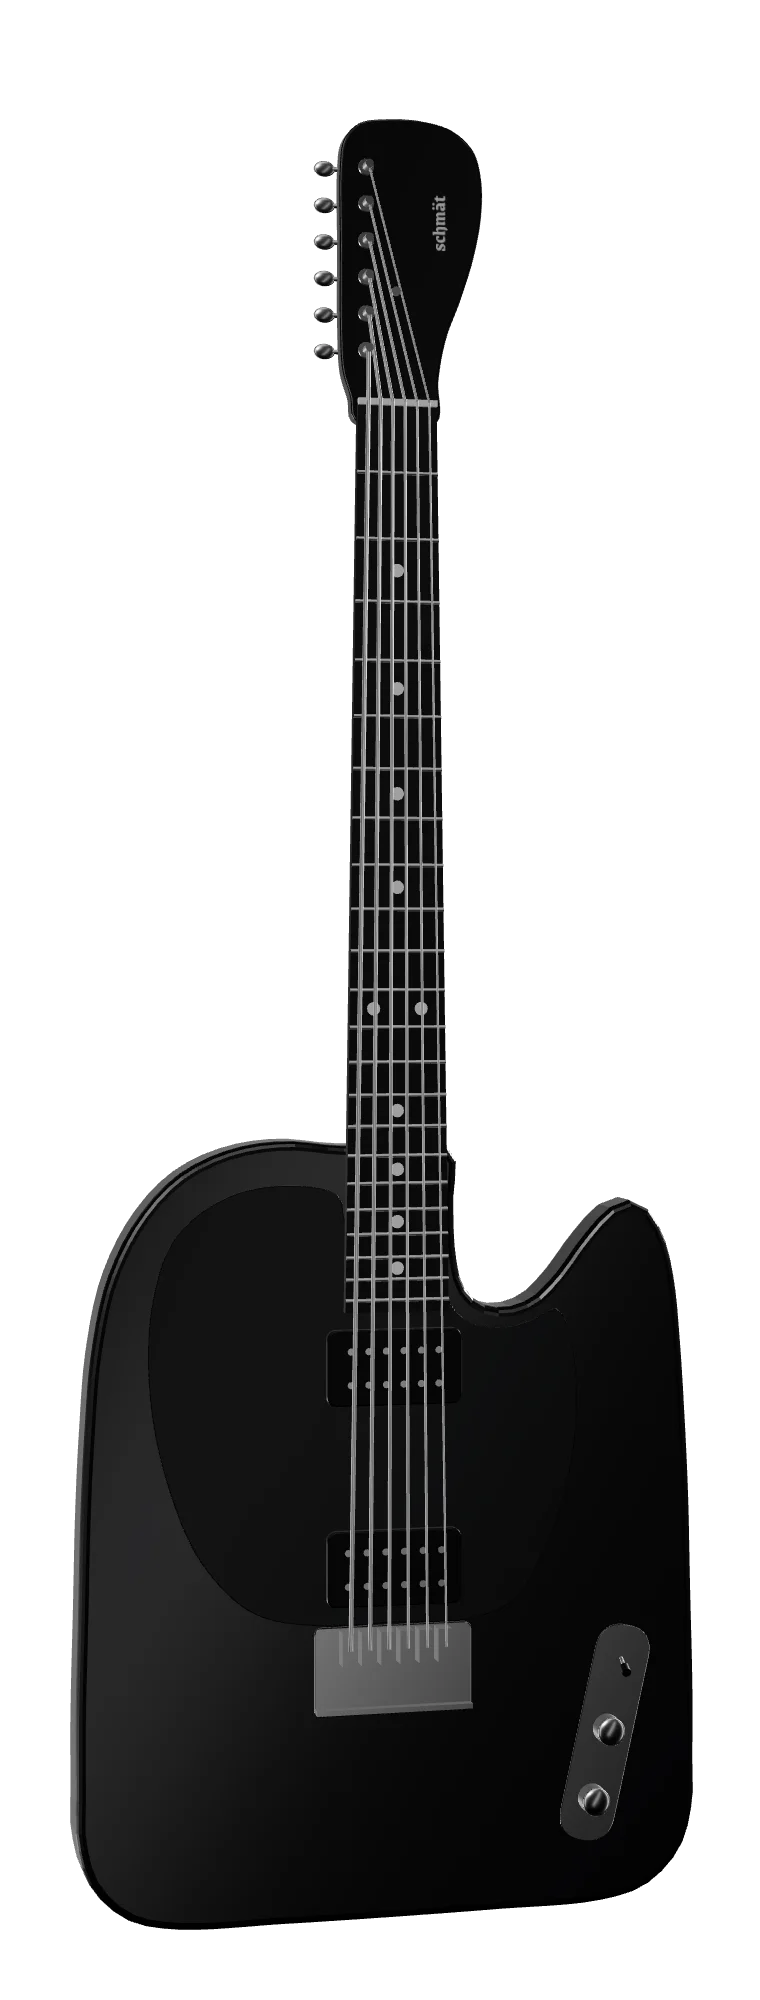
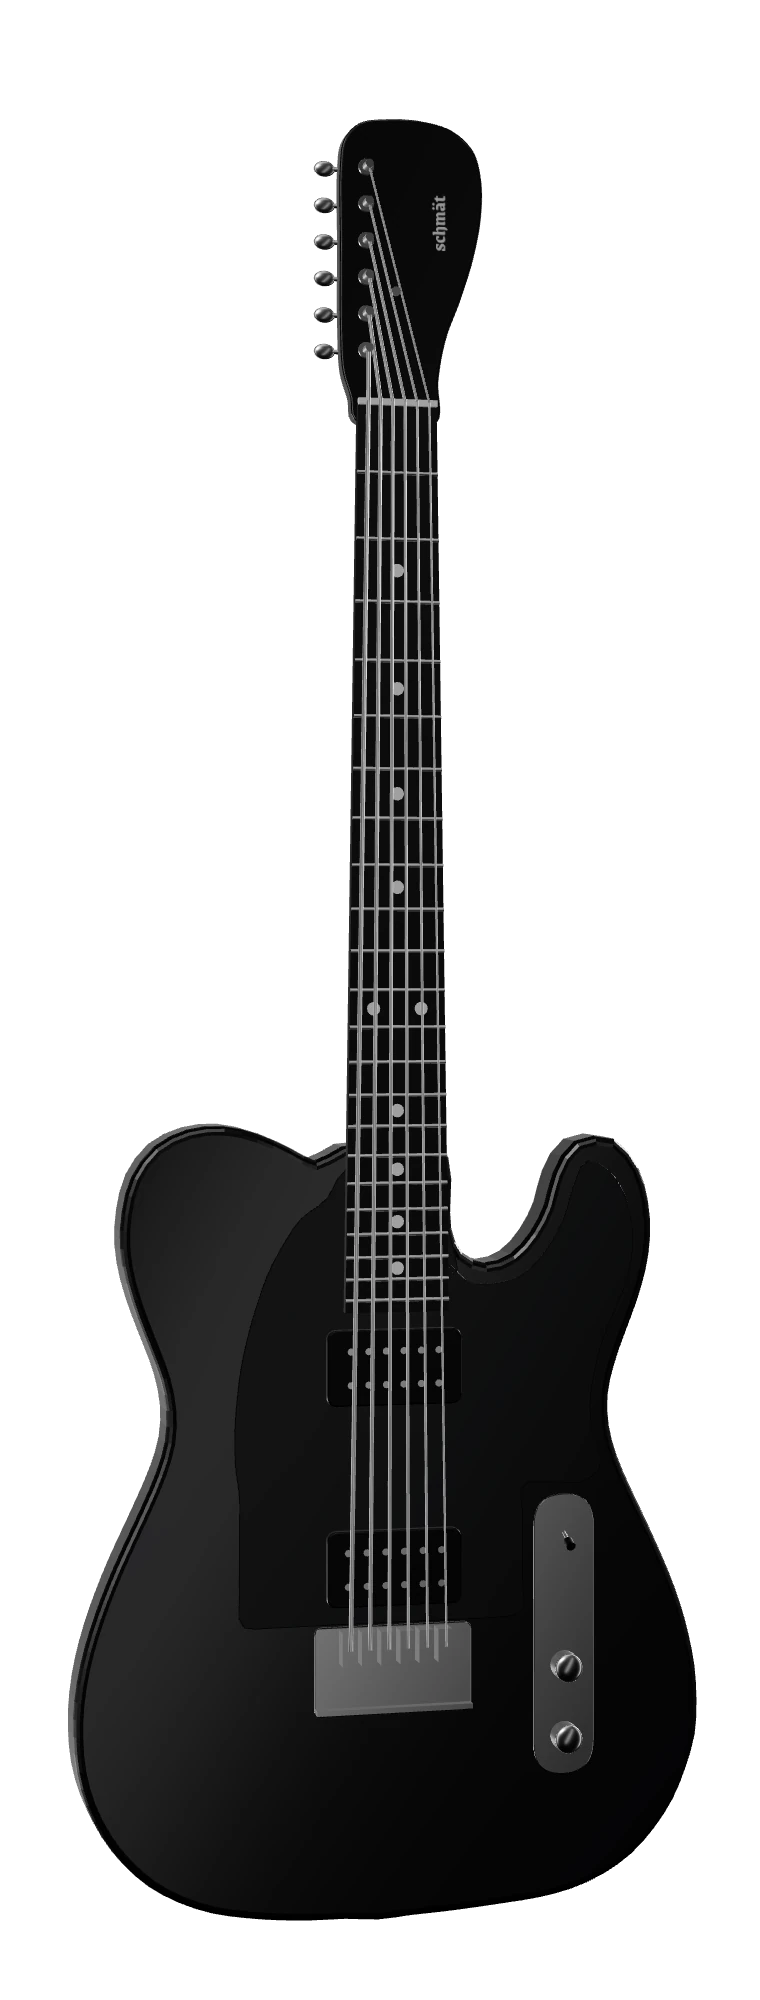
feat: trace the Telecaster body and pickguard from a reference photo

diff --git a/src/components/guitar/telecaster.ts b/src/components/guitar/telecaster.ts
@@ -9,97 +9,157 @@ import { GUITAR_DIMENSIONS as D } from "./guitarModel";
 export type Outline = ReadonlyArray<readonly [number, number]>;
 
 /**
- * Body slab, authored around (0, 0) and placed at `bodyCenterY`. Flat neck
- * pocket across the top, a deep tight cutaway into a short pointed treble horn,
- * near-parallel sides, a squarish lower bout with ≈0.35 corners and a single
- * rounded bass shoulder.
+ * Body slab, authored around (0, 0) and placed at `bodyCenterY`; traced from a
+ * front photo of a Telecaster (neck axis vertical, 2.40 wide). Flat neck pocket
+ * at y = 1.46, rounded bass shoulder with the waist below it, a deep cutaway into
+ * the treble horn, and a lower bout that flares out to round corners.
  */
 export const BODY_OUTLINE: Outline = [
-  // Neck pocket.
-  [0, 1.46],
-  [0.21, 1.46],
-  // Cutaway: down the side of the neck, then out to the horn.
-  [0.215, 1.26],
-  [0.225, 1.06],
-  [0.26, 0.92],
-  [0.34, 0.84],
-  [0.46, 0.815],
-  [0.58, 0.85],
-  [0.69, 0.95],
-  [0.79, 1.08],
-  [0.88, 1.18],
-  // Treble horn tip.
-  [0.95, 1.225],
-  [1.02, 1.2],
-  [1.08, 1.1],
-  // Treble side.
-  [1.12, 0.94],
-  [1.145, 0.7],
-  [1.165, 0.4],
-  [1.18, 0.1],
-  [1.19, -0.3],
-  [1.2, -0.7],
-  [1.2, -1.0],
-  // Lower treble corner (radius ≈0.35 around (0.85, -1.13)).
-  [1.2, -1.13],
-  [1.153, -1.305],
-  [1.025, -1.433],
-  [0.85, -1.48],
-  // Bottom edge, faintly crowned.
-  [0.42, -1.488],
-  [0, -1.49],
-  [-0.42, -1.488],
-  [-0.85, -1.48],
-  // Lower bass corner.
-  [-1.025, -1.433],
-  [-1.153, -1.305],
-  [-1.2, -1.13],
-  // Bass side.
-  [-1.2, -1.0],
-  [-1.2, -0.7],
-  [-1.19, -0.3],
-  [-1.18, 0.1],
-  [-1.165, 0.4],
-  // Bass shoulder, rolling into the top edge at the pocket.
-  [-1.14, 0.7],
-  [-1.08, 0.98],
-  [-0.97, 1.2],
-  [-0.82, 1.36],
-  [-0.63, 1.45],
-  [-0.42, 1.48],
-  [-0.21, 1.46],
+  [-0.053, 1.461],
+  [-0.184, 1.457],
+  [-0.296, 1.402],
+  [-0.414, 1.456],
+  [-0.533, 1.51],
+  [-0.658, 1.541],
+  [-0.788, 1.531],
+  [-0.905, 1.476],
+  [-0.985, 1.373],
+  [-1.02, 1.248],
+  [-1.027, 1.117],
+  [-1.006, 0.988],
+  [-0.967, 0.864],
+  [-0.92, 0.742],
+  [-0.875, 0.619],
+  [-0.85, 0.491],
+  [-0.855, 0.36],
+  [-0.892, 0.235],
+  [-0.944, 0.115],
+  [-1.0, -0.003],
+  [-1.056, -0.122],
+  [-1.106, -0.242],
+  [-1.15, -0.366],
+  [-1.184, -0.492],
+  [-1.205, -0.621],
+  [-1.21, -0.752],
+  [-1.198, -0.882],
+  [-1.163, -1.007],
+  [-1.105, -1.125],
+  [-1.027, -1.229],
+  [-0.931, -1.318],
+  [-0.818, -1.384],
+  [-0.696, -1.43],
+  [-0.568, -1.456],
+  [-0.438, -1.473],
+  [-0.307, -1.482],
+  [-0.177, -1.485],
+  [-0.048, -1.496],
+  [0.072, -1.488],
+  [0.202, -1.483],
+  [0.333, -1.475],
+  [0.463, -1.465],
+  [0.594, -1.453],
+  [0.722, -1.428],
+  [0.844, -1.382],
+  [0.955, -1.313],
+  [1.047, -1.22],
+  [1.121, -1.114],
+  [1.173, -0.995],
+  [1.21, -0.869],
+  [1.217, -0.739],
+  [1.209, -0.609],
+  [1.184, -0.48],
+  [1.148, -0.354],
+  [1.102, -0.232],
+  [1.049, -0.112],
+  [0.993, 0.006],
+  [0.936, 0.124],
+  [0.884, 0.244],
+  [0.85, 0.37],
+  [0.846, 0.5],
+  [0.875, 0.628],
+  [0.92, 0.751],
+  [0.967, 0.873],
+  [1.004, 0.998],
+  [1.021, 1.128],
+  [1.011, 1.258],
+  [0.971, 1.382],
+  [0.884, 1.476],
+  [0.759, 1.466],
+  [0.687, 1.36],
+  [0.651, 1.234],
+  [0.589, 1.12],
+  [0.497, 1.027],
+  [0.373, 0.992],
+  [0.258, 1.047],
+  [0.207, 1.165],
+  [0.205, 1.296],
+  [0.196, 1.425],
+  [0.078, 1.461],
 ];
 
 /**
- * One-piece HH guard in the body frame: follows the cutaway, wraps both
- * humbuckers, and stops short of the bridge plate and the control plate.
+ * One-piece HH guard in the body frame, traced from the same photo (it runs
+ * under the neck to the pocket), with the lower edge carried past the bridge
+ * humbucker to the bridge plate, as on HH Teles. It stops short of the control
+ * plate.
  */
 export const PICKGUARD_OUTLINE: Outline = [
-  [0.19, 1.15],
-  [0.2, 0.96],
-  [0.24, 0.85],
-  [0.32, 0.79],
-  [0.45, 0.77],
-  [0.57, 0.8],
-  [0.66, 0.84],
-  [0.72, 0.7],
-  [0.74, 0.45],
-  [0.7, 0.15],
-  [0.6, -0.12],
-  [0.48, -0.3],
-  [0.3, -0.36],
-  [0, -0.36],
-  [-0.3, -0.36],
-  [-0.55, -0.3],
-  [-0.75, -0.1],
-  [-0.88, 0.2],
-  [-0.95, 0.55],
-  [-0.94, 0.9],
-  [-0.85, 1.15],
-  [-0.65, 1.3],
-  [-0.42, 1.34],
-  [-0.22, 1.3],
-  [-0.18, 1.18],
+  [-0.021, 1.42],
+  [-0.146, 1.42],
+  [-0.207, 1.38],
+  [-0.262, 1.289],
+  [-0.361, 1.215],
+  [-0.433, 1.114],
+  [-0.492, 1.004],
+  [-0.535, 0.887],
+  [-0.57, 0.767],
+  [-0.597, 0.645],
+  [-0.613, 0.522],
+  [-0.622, 0.398],
+  [-0.62, 0.273],
+  [-0.604, 0.15],
+  [-0.604, 0.025],
+  [-0.604, -0.1],
+  [-0.604, -0.225],
+  [-0.596, -0.348],
+  [-0.475, -0.36],
+  [-0.35, -0.36],
+  [-0.225, -0.36],
+  [-0.101, -0.36],
+  [0.024, -0.36],
+  [0.149, -0.36],
+  [0.274, -0.36],
+  [0.398, -0.36],
+  [0.516, -0.342],
+  [0.521, -0.218],
+  [0.521, -0.093],
+  [0.521, 0.032],
+  [0.523, 0.156],
+  [0.646, 0.162],
+  [0.771, 0.161],
+  [0.841, 0.222],
+  [0.807, 0.342],
+  [0.796, 0.465],
+  [0.813, 0.588],
+  [0.844, 0.705],
+  [0.891, 0.819],
+  [0.942, 0.939],
+  [0.969, 1.061],
+  [0.966, 1.176],
+  [0.936, 1.287],
+  [0.871, 1.381],
+  [0.783, 1.42],
+  [0.729, 1.317],
+  [0.692, 1.199],
+  [0.621, 1.075],
+  [0.527, 0.981],
+  [0.423, 0.947],
+  [0.305, 0.952],
+  [0.214, 1.042],
+  [0.234, 1.005],
+  [0.248, 0.987],
+  [0.256, 0.991],
+  [0.103, 1.42],
 ];
 
 /**
@@ -130,13 +190,13 @@ export const HEADSTOCK_OUTLINE: Outline = [
   [0, -0.08],
 ];
 
-/** Chrome control plate on the lower treble bout (body frame), long axis tilted by `angle`. */
+/** Chrome control plate on the lower treble bout (body frame), parallel to the strings; long axis tilted by `angle`. */
 export const CONTROL_PLATE = {
-  x: 0.86,
-  y: -0.84,
-  angle: -0.22,
-  length: 0.86,
-  width: 0.22,
+  x: 0.69,
+  y: -0.44,
+  angle: 0,
+  length: 1.1,
+  width: 0.24,
 } as const;
 
 /** Bevel size and thickness of the body's crisp slab edge. */

diff --git a/src/components/guitar/telecaster.test.ts b/src/components/guitar/telecaster.test.ts
@@ -41,27 +41,39 @@ function topEdgeAt(outline: Outline, x: number): number {
 const STRINGS = Array.from({ length: D.stringCount }, (_, index) => index);
 
 describe("telecaster body", () => {
-  it("is ≈2.40 wide and ≈2.96 long", () => {
+  it("is ≈2.40 wide and ≈3.0 long", () => {
     const { minX, maxX, minY, maxY } = bounds(BODY_OUTLINE);
     expect(maxX - minX).toBeGreaterThanOrEqual(2.35);
     expect(maxX - minX).toBeLessThanOrEqual(2.45);
-    expect(maxY - minY).toBeGreaterThanOrEqual(2.9);
-    expect(maxY - minY).toBeLessThanOrEqual(3.02);
+    expect(maxY - minY).toBeGreaterThanOrEqual(2.95);
+    expect(maxY - minY).toBeLessThanOrEqual(3.1);
   });
 
-  it("has nearly parallel sides", () => {
-    const lower = BODY_OUTLINE.filter(([, y]) => y >= -1.1 && y <= -0.3);
+  it("pinches in at the waist and flares into the lower bout", () => {
+    const reach = (side: number, y0: number) =>
+      Math.max(
+        ...BODY_OUTLINE.filter(([x, y]) => Math.sign(x) === side && Math.abs(y - y0) < 0.08).map(
+          ([x]) => Math.abs(x),
+        ),
+      );
     for (const side of [-1, 1]) {
-      const reach = lower.filter(([x]) => Math.sign(x) === side).map(([x]) => Math.abs(x));
-      expect(reach.length).toBeGreaterThan(1);
-      expect(Math.max(...reach) - Math.min(...reach)).toBeLessThan(0.08);
+      const waist = reach(side, 0.4);
+      const lowerBout = reach(side, -0.6);
+      expect(lowerBout - waist).toBeGreaterThanOrEqual(0.2);
     }
   });
 
-  it("has a treble horn shorter than the bass shoulder", () => {
+  it("has a bass shoulder that reaches a little past the treble horn", () => {
     const horn = Math.max(...BODY_OUTLINE.filter(([x]) => x > 0.3).map(([, y]) => y));
     const shoulder = Math.max(...BODY_OUTLINE.filter(([x]) => x < -0.3).map(([, y]) => y));
-    expect(shoulder - horn).toBeGreaterThanOrEqual(0.2);
+    expect(shoulder).toBeGreaterThan(horn);
+    expect(shoulder - horn).toBeLessThan(0.2);
+  });
+
+  it("cuts away deeply beside the neck", () => {
+    // Below the horn tip, the treble edge next to the neck dips well under the pocket.
+    const cutaway = topEdgeAt(BODY_OUTLINE, 0.4);
+    expect(topEdgeAt(BODY_OUTLINE, 0) - cutaway).toBeGreaterThanOrEqual(0.3);
   });
 
   it("meets the fretboard near fret 16", () => {

diff --git a/src/components/guitar/Guitar.tsx b/src/components/guitar/Guitar.tsx
@@ -857,17 +857,17 @@ function Body({
           />
         ))}
       </group>
-      {/* Angled control plate: selector lever on top, then volume and tone. */}
+      {/* Control plate: selector lever nearest the neck, then volume and tone. */}
       <group
         position={[CONTROL_PLATE.x, CONTROL_PLATE.y, BODY_FRONT_Z]}
         rotation={[0, 0, CONTROL_PLATE.angle]}
       >
         <mesh geometry={geometry.controlPlate} material={materials.chrome} />
-        <group position={[0, 0.3, 0.01]} rotation={[0.35, 0, 0]}>
+        <group position={[0, 0.4, 0.01]} rotation={[0.35, 0, 0]}>
           <mesh geometry={geometry.lever} material={materials.chrome} position={[0, 0, 0.04]} />
           <mesh geometry={geometry.leverTip} material={materials.knob} position={[0, 0, 0.085]} />
         </group>
-        {[0.02, -0.26].map((y) => (
+        {[-0.12, -0.4].map((y) => (
           <group key={y} position={[0, y, 0.01]}>
             <mesh geometry={geometry.knob} material={materials.chrome} position={[0, 0, 0.035]} />
             <mesh

diff --git a/AGENTS.md b/AGENTS.md
@@ -41,8 +41,8 @@ Rules:
 ## Current Features
 
 - Home is a scroll journey over a full-screen pinned procedural 3D guitar (`src/components/home/HomeJourney.tsx`); the sections scroll over the stage, which starts under the header. Phones: the guitar is centred behind the text and dims (scrim driven by scroll position) once the reader leaves the hero. md+: the text is a left column and the render is shifted right by `STAGE_SHIFT` (`guitar/journey.ts`), mirrored by the CSS backdrop and the poster. Stops: hero (wordmark, tagline, Play) → headstock (latest release + Spotify embed) → neck (upcoming shows, one fret each; the fret of the row in view lights red) → body (merch) → outro (links). Admin widget order/visibility drives the neck/body stops (the release stop is always second, right after the hero, whenever its widget is enabled, regardless of widget order); empty merch skips the body stop. The widget `width` setting is still stored and editable in admin but no longer affects `/` (the journey is a single column)
-- Play button plays `site.featuredTrack` ("Engel uit die Hemel", `public/audio/engel-uit-die-hemel.mp3`) through `createAudioPlayback` in `src/components/guitar/playback.ts`. The file is only requested on the first press; a Web Audio analyser turns the track's low end into the playback envelope (each detected beat plucks a string), with a fixed-tempo pulse when Web Audio is unavailable. A status line under the button covers idle, loading, playing and load errors. `PlaybackProvider` lives in the root layout, so the track keeps playing in a background tab and across client-side navigation (a full reload resets it). Once Play has been pressed, a persistent player bar (`src/components/player/PlayerBar.tsx`: play/pause, title, live waveform, seek, time, mute, volume, close) sits fixed along the bottom of every public page (not `/admin`); closing it pauses the track and it returns on the next play; navigating to `/admin` also pauses the track, since the bar is hidden there. Volume and mute persist in `localStorage` (`bandland-volume`); volume and mute go through a `GainNode` after the analyser when Web Audio exists, otherwise through the audio element. `createSimulatedPlayback` stays for tests (`PlaybackProvider` takes a `createDriver` prop)
-- The guitar is a procedural piano-black Telecaster, HH layout (proportions in `GUITAR_DIMENSIONS` in `guitar/guitarModel.ts`: nut 0.31, heel 0.41, body about 2.40 x 2.96; outlines and string layout in `guitar/telecaster.ts`; clearcoat single-cut slab, black one-piece pickguard, two humbuckers, hardtail bridge plate with six block saddles, angled chrome control plate with selector and two knobs, rounded neck, 22 fret wires, Tele headstock with six-in-line tuners, a string tree and the wordmark). The neck stays dark to keep the palette monochrome. It is lit by a softbox environment baked once with `PMREMGenerator` (no drei) plus a key and two rim lights. Red appears only for live state: the lit fret, and while playing the pickups, plucked strings and a warm under-light
+- Play button plays `site.featuredTrack` ("Engel uit die Hemel", `public/audio/engel-uit-die-hemel.mp3`) through `createAudioPlayback` in `src/components/guitar/playback.ts`. The file is only requested on the first press; a Web Audio analyser turns the track's low end into the playback envelope (each detected beat plucks a string), with a fixed-tempo pulse when Web Audio is unavailable. A status line under the button covers idle, loading, playing and load errors. `PlaybackProvider` lives in the root layout, so the track keeps playing in a background tab and across client-side navigation (a full reload resets it). Once Play has been pressed, a persistent player bar (`src/components/player/PlayerBar.tsx`: play/pause, title, live waveform, seek, time, mute, volume, close) sits fixed along the bottom of every public page (not `/admin`) and sets `--player-clear` to its height, which the footer pads by and the home stage shrinks by so the bar never covers the guitar; closing it pauses the track and it returns on the next play; navigating to `/admin` also pauses the track, since the bar is hidden there. Volume and mute persist in `localStorage` (`bandland-volume`); volume and mute go through a `GainNode` after the analyser when Web Audio exists, otherwise through the audio element. `createSimulatedPlayback` stays for tests (`PlaybackProvider` takes a `createDriver` prop)
+- The guitar is a procedural piano-black Telecaster, HH layout (proportions in `GUITAR_DIMENSIONS` in `guitar/guitarModel.ts`: nut 0.31, heel 0.41, body about 2.40 x 3.0; body and pickguard outlines traced from a front photo of a Telecaster, plus the string layout, in `guitar/telecaster.ts`; clearcoat single-cut slab, black one-piece pickguard, two humbuckers, hardtail bridge plate with six block saddles, chrome control plate parallel to the strings with selector and two knobs, rounded neck, 22 fret wires, Tele headstock with six-in-line tuners, a string tree and the wordmark). The neck stays dark to keep the palette monochrome. It is lit by a softbox environment baked once with `PMREMGenerator` (no drei) plus a key and two rim lights. Red appears only for live state: the lit fret, and while playing the pickups, plucked strings and a warm under-light
 - Scroll motion (`Guitar.tsx`, all off under reduced motion): the camera follows its pose on a slightly underdamped spring and swings out and to alternating sides between stops (`TRANSITION_ARC` in `journey.ts`); the guitar yaws against the scroll direction and springs back with one wobble (`SwayRig`); the strings shiver with scroll speed (movement only, no red); and each time a new show row lights its fret, that string is plucked
 - The canvas is transparent; the stage backdrop (light pool, floor glow, vignette, grain; red floor spill under `[data-playing]`) is CSS (`.guitar-stage` in `globals.css`) so the poster and the canvas share it. Atmosphere is driven by CSS variables on the stage: `--light-x`/`--light-y`/`--light-size` (the spotlight, per-stop `LIGHT_POSES` sampled by `sampleLight` in `guitar/journey.ts`, pinned to the hero under reduced motion), `--pulse` (music level from `guitar/useStagePulse`, always 0 under reduced motion) and `--haze-shift` (scroll); the layers are `.guitar-stage-spot` and `.guitar-stage-haze`. Dust motes (`guitar/motes.ts`, one three.js `Points`, about 300 on desktop and 150 on phones) drift in the beam only while scrolling or playing
 - Intro and reveals: an inline boot script (`src/app/bootScript.ts`) adds `js` to `<html>` (and `intro-seen` when sessionStorage `bandland-intro` is set); `IntroSeen` adds `reveal-ready` after hydration and `intro-seen` after the 1.6 s one-shot intro. `Reveal` fades content in on scroll; its hidden state is gated on `reveal-ready`, so content stays visible without JS or if hydration fails. It replaced the old scroll-linked `.stop-reveal`
